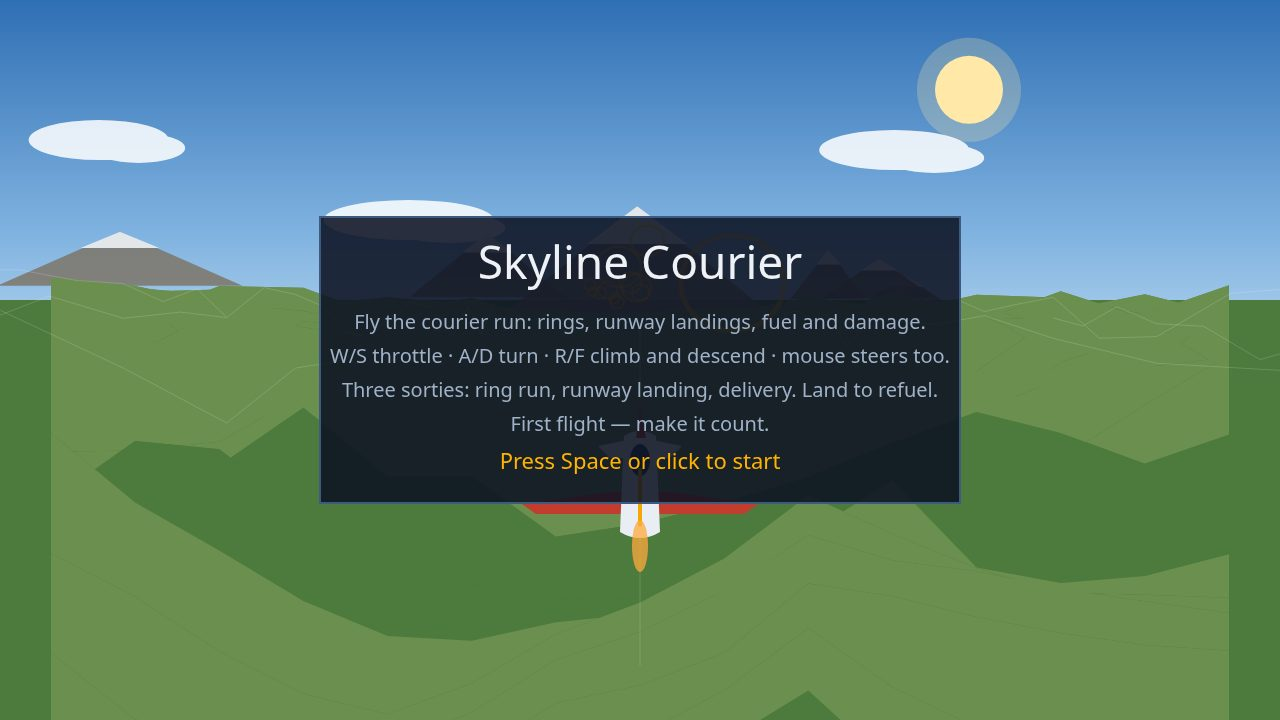
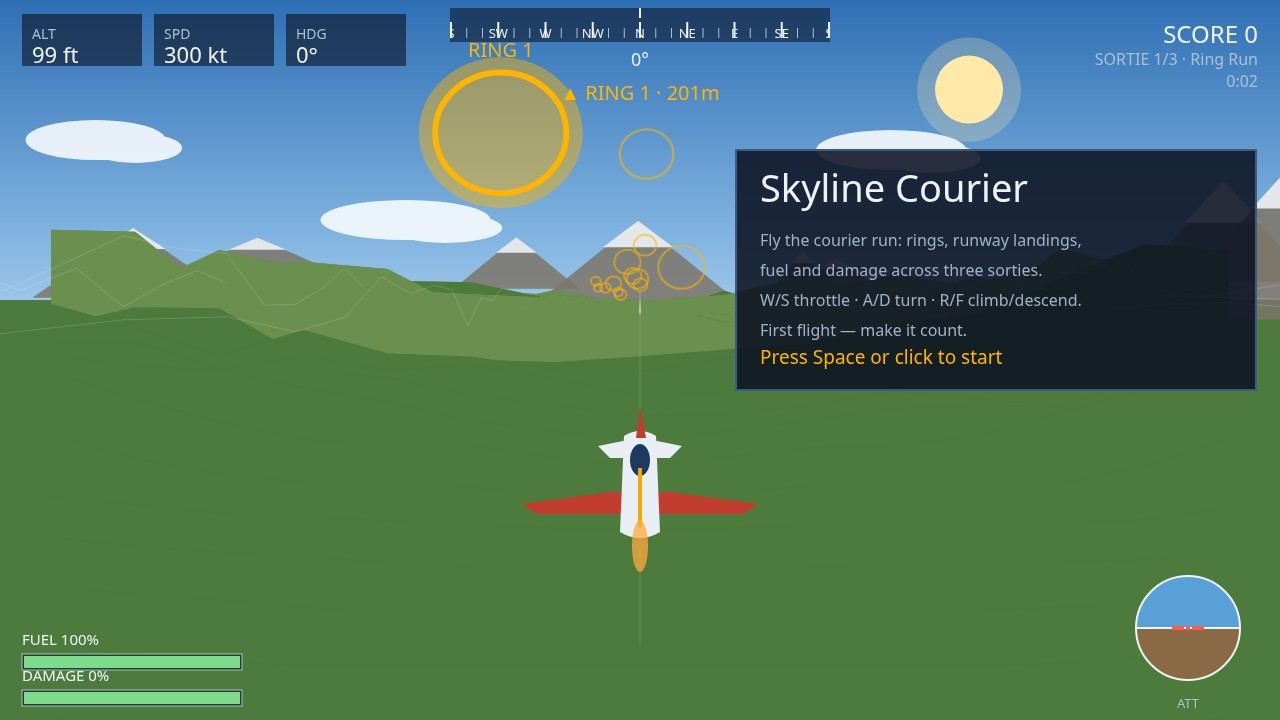
Polish cover and play shots: title panel off-centre, HUD lit on title, ring framed at ~150m
- Title screen now draws the HUD behind a compact title block moved to
  the upper-right corner, so the cover shows the plane, the first ring
  (RING 1, 201m) and the lit instruments instead of a centred panel
  hiding the aircraft.
- Start scene staged at 2.5s (still over the runway, ring ahead);
  play scene at 14.4s so the target ring sits ~141m out instead of
  filling the frame at 70m. Both shots are real renders of the game.
- 3-end.jpg untouched.

diff --git a/game/src/render.js b/game/src/render.js
@@ -499,6 +499,33 @@ export function createRenderer(canvas) {
     text(prompt, FIELD.width / 2, y + height - 34, 22, PALETTE.ring, 'center');
   }
 
+  // Compact title block tucked into the upper-right corner: the old centred
+  // panel hid the plane, so the title now leaves the centre of the frame —
+  // the plane, the runway ahead and the next ring — in the open. Right, not
+  // left, so the first ring (centre-left in the start shot) stays clear.
+  function drawTitlePanel(best) {
+    const width = 520;
+    const height = 240;
+    const x = FIELD.width - 24 - width;
+    const y = 150;
+    context.fillStyle = PALETTE.panel;
+    context.fillRect(x, y, width, height);
+    context.strokeStyle = PALETTE.panelEdge;
+    context.lineWidth = 2;
+    context.strokeRect(x, y, width, height);
+    text('Skyline Courier', x + 24, y + 52, 38, PALETTE.text, 'left');
+    const lines = [
+      'Fly the courier run: rings, runway landings,',
+      'fuel and damage across three sorties.',
+      'W/S throttle · A/D turn · R/F climb/descend.',
+      best > 0 ? `Best score ${best}` : 'First flight — make it count.',
+    ];
+    lines.forEach((line, i) => {
+      text(line, x + 24, y + 96 + i * 30, 16, PALETTE.muted, 'left');
+    });
+    text('Press Space or click to start', x + 24, y + height - 26, 19, PALETTE.ring, 'left');
+  }
+
   function draw(flight, world, screen, best, tilt) {
     const s = flight.state;
     const t = tilt || { bank: 0, pitch: 0 };
@@ -518,16 +545,10 @@ export function createRenderer(canvas) {
     drawRings(world, projector, flight.nextRing());
     drawPlane(s, t.bank, s.throttle);
     if (screen === SCREEN_TITLE) {
-      drawPanel(
-        'Skyline Courier',
-        [
-          'Fly the courier run: rings, runway landings, fuel and damage.',
-          'W/S throttle · A/D turn · R/F climb and descend · mouse steers too.',
-          'Three sorties: ring run, runway landing, delivery. Land to refuel.',
-          best > 0 ? `Best score ${best}` : 'First flight — make it count.',
-        ],
-        'Press Space or click to start',
-      );
+      // Instruments stay lit behind the title: the cover should read as a
+      // flight in progress, not a menu over a postcard.
+      drawHud(flight, world, t);
+      drawTitlePanel(best);
       return;
     }
     drawHud(flight, world, t);

diff --git a/game/src/shots.js b/game/src/shots.js
@@ -9,8 +9,8 @@ import { STEP } from './config.js';
 import { EVENT_OVER } from './world.js';
 import { SCREEN_OVER, SCREEN_PLAY, SCREEN_TITLE } from './render.js';
 
-const START_SECONDS = 5;
-const PLAY_SECONDS = 15;
+const START_SECONDS = 2.5;
+const PLAY_SECONDS = 14.4;
 const END_LIMIT_SECONDS = 600;
 const END_RECKLESS_AFTER_SECONDS = 18;
 
